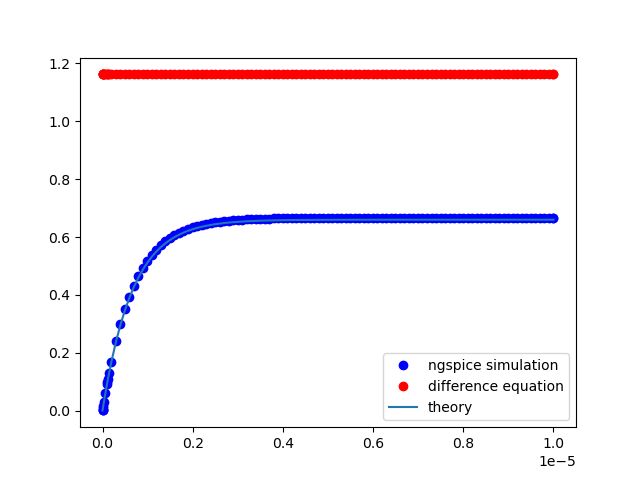
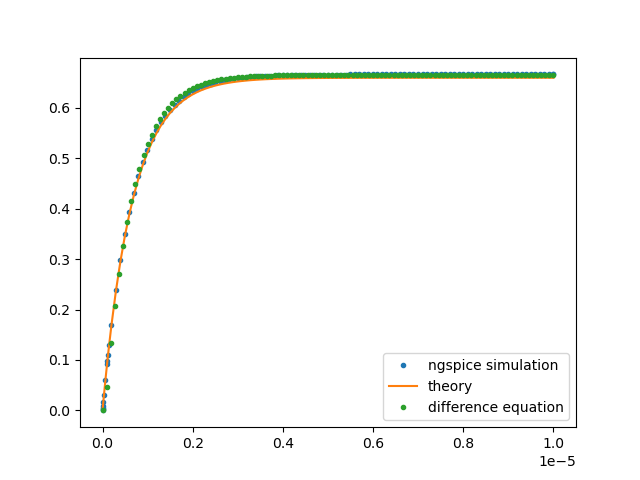
cmt msg lol

diff --git a/ckt-sig/codes/4_4.py b/ckt-sig/codes/4_4.py
@@ -16,13 +16,26 @@ vi=[]
 
 
 t,v_sim = np.loadtxt('out.txt', unpack=True)
-for i in t:
-    print(v(i))
-    vi.append(v(i))
+#for i in t:
+ #   print(v(i))
+ #   vi.append(v(i))
 plt.figure()
-plt.plot(t,v_sim,'bo', label='ngspice simulation')
-plt.plot(t,vi,'ro', label='difference equation')
+plt.plot(t,v_sim,'.', label='ngspice simulation')
+#plt.plot(t,vi,'ro', label='difference equation')
 plt.plot(t,0.66*(1-np.exp(-1.5e6*t)), label='theory')
 #plt.label(['ngspice simulations','theory'])
+
+T = 1e-7
+tau = 2e-6/3
+p = (2*tau-T)/(2*tau+T)
+t = np.linspace(0, 1e-5, 111)
+n = np.arange(0, 111, 1)
+vn = 1 - p**n
+print(vn)
+print(np.pad(vn, (0,1), constant_values=(0,0)))
+print(np.pad(4, (1,0), constant_values=(0,0)))
+vn = np.pad(vn, (0,1), constant_values=(0,0)) + np.pad(vn, (1,0), constant_values=(0,0))
+vn =0.5* 0.666*vn
+plt.plot(t,vn[0:111],'.', label='difference equation')
 plt.legend()
 plt.savefig('tmp.png')

diff --git a/ckt-sig/codes/tmp.py b/ckt-sig/codes/tmp.py
@@ -1,7 +1,8 @@
 import numpy as np
 from matplotlib import pyplot as plt
 import os
-from scipy import signal
+#from scipy import signal
+
 
 os.system('cat 4_7.cir | ngspice')
 k = 1.5e6
@@ -19,7 +20,7 @@ print(vn)
 print(np.pad(vn, (0,1), constant_values=(0,0)))
 print(np.pad(4, (1,0), constant_values=(0,0)))
 vn = np.pad(vn, (0,1), constant_values=(0,0)) + np.pad(vn, (1,0), constant_values=(0,0))
-print(vn)
+vn = 0.666*vn
 vn[0] = 0
 plt.plot(t, 2*(1 - np.exp(-k*t))/3)
 plt.plot(t, (V2*tau/(2*C0*R2))*vn[:len(t)], '.')
